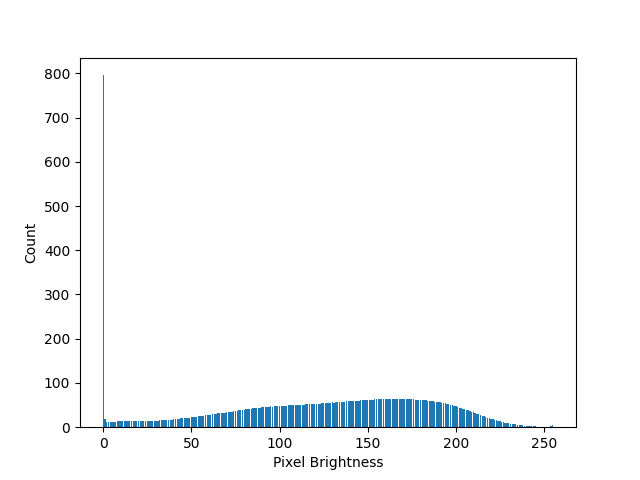
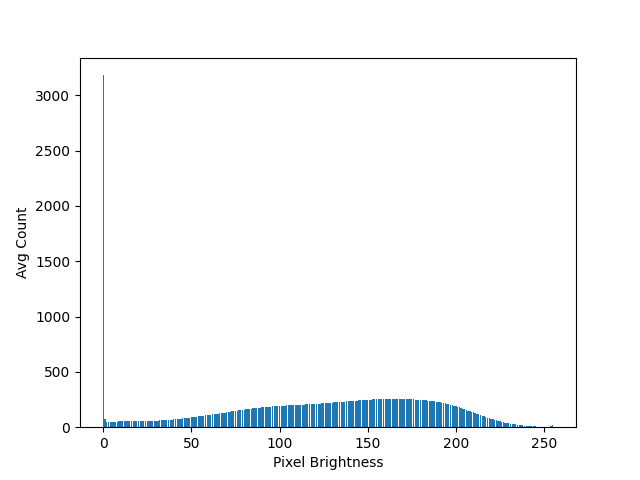
Summary statistics + boxplots

diff --git a/exploratory_analysis.py b/exploratory_analysis.py
@@ -58,21 +58,15 @@ load_img(img_path).save('images/bacteria.png')
 print('Image of bacteria lung saved to images/')
 
 
-# Setting data up
-# We may want to drop some rows (ARDS, combine Strep), set this up as a function to use for train and test, split this into new script later
-df_transform = pd.DataFrame(columns = ['img', 'label1', 'label2', 'label3'])
-
 print('Creating training set...')
-for index, row in df_train.iterrows():
-    img = cv2.imread('data/train/' + row['X_ray_image_name'], cv2.IMREAD_GRAYSCALE)
-    imgr = cv2.resize(img, (100,100))
+df_transform = pd.DataFrame()
 
 # middle of grayscale, 127.5
 medianPixel = round(255 / 2)
 
 for index, row in df_train.iterrows():
     img = cv2.imread('data/train/' + row['X_ray_image_name'], cv2.IMREAD_GRAYSCALE)
-    imgr = cv2.resize(img, (100,100))
+    imgr = cv2.resize(img, (200,200))
 
     # for calculation of stats
     unique, counts = np.unique(imgr, return_counts=True)
@@ -81,9 +75,9 @@ for index, row in df_train.iterrows():
     imgPixels = imgr.ravel()
 
     # light if > median; dark if < median
-    lightPixels = np.where(imgPixels > medianPixel)
-    darkPixels = np.where(imgPixels < medianPixel)
-
+    lightPixels = imgPixels[imgPixels > medianPixel]
+    darkPixels = imgPixels[imgPixels < medianPixel]
+    
     numMedian = 0
     if medianPixel in pixelCounts.keys():
         numMedian = pixelCounts[medianPixel]
@@ -104,7 +98,6 @@ for index, row in df_train.iterrows():
         'avgAboveMedian': np.mean(lightPixels),
         'avgBelowMedian': np.mean(darkPixels)
     }, ignore_index = True)
-    print(df_transform)
 print('Finished creating training set...')
 
 
@@ -129,13 +122,25 @@ avgCountsPneu = avgCountsPneu / countPenu
 
 plt.bar(np.arange(0,256), avgCountsNormal)
 plt.xlabel('Pixel Brightness')
-plt.ylabel('Count')
+plt.ylabel('Avg Count')
 plt.savefig('images/hist_normal')
 
 plt.clf()
 
 plt.bar(np.arange(0,256), avgCountsPneu)
 plt.xlabel('Pixel Brightness')
-plt.ylabel('Count')
+plt.ylabel('Avg Count')
 plt.savefig('images/hist_pmeumonia')
 print('Finished creating histograms...')
+
+plt.clf()
+
+print('Creating boxplots...')
+# for every explanatory variable, create boxplot
+for col in df_transform.columns:
+    if col not in ('img', 'label1', 'label2', 'label3'):
+        boxplot = df_transform.boxplot(by = 'label1', column = [col], grid = False)
+        plt.title(col)
+        plt.suptitle("")
+        plt.savefig('images/boxplot_' + col)
+print('Finished creating boxplots...')
